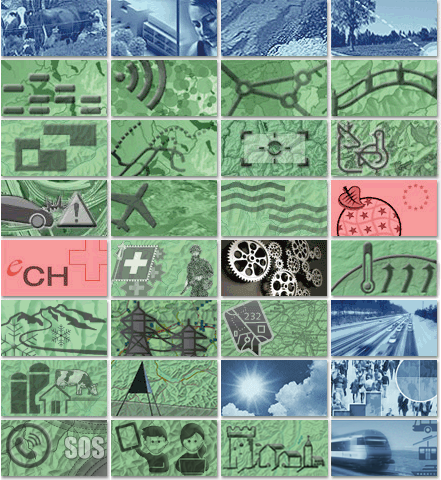
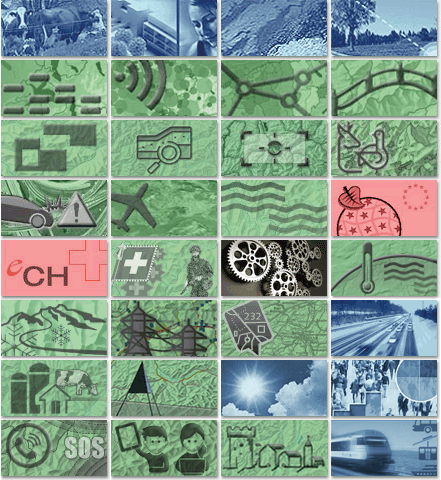
BGDIDIC-2618: added new topic img for georessources

Changed region(s): [[0.2358, 0.25, 0.5011, 0.375], [0.8549, 0.5312, 1.0, 0.625], [0.8254, 0.5, 0.8549, 0.5312]]

diff --git a/src/components/topic/style/topic.less b/src/components/topic/style/topic.less
@@ -144,7 +144,7 @@
     background-position: -110px -360px;
   }
 
-  .ga-topics-sprite-geothermie {
+  .ga-topics-sprite-georessourcen {
     background-position: -330px -240px;
   }
 
